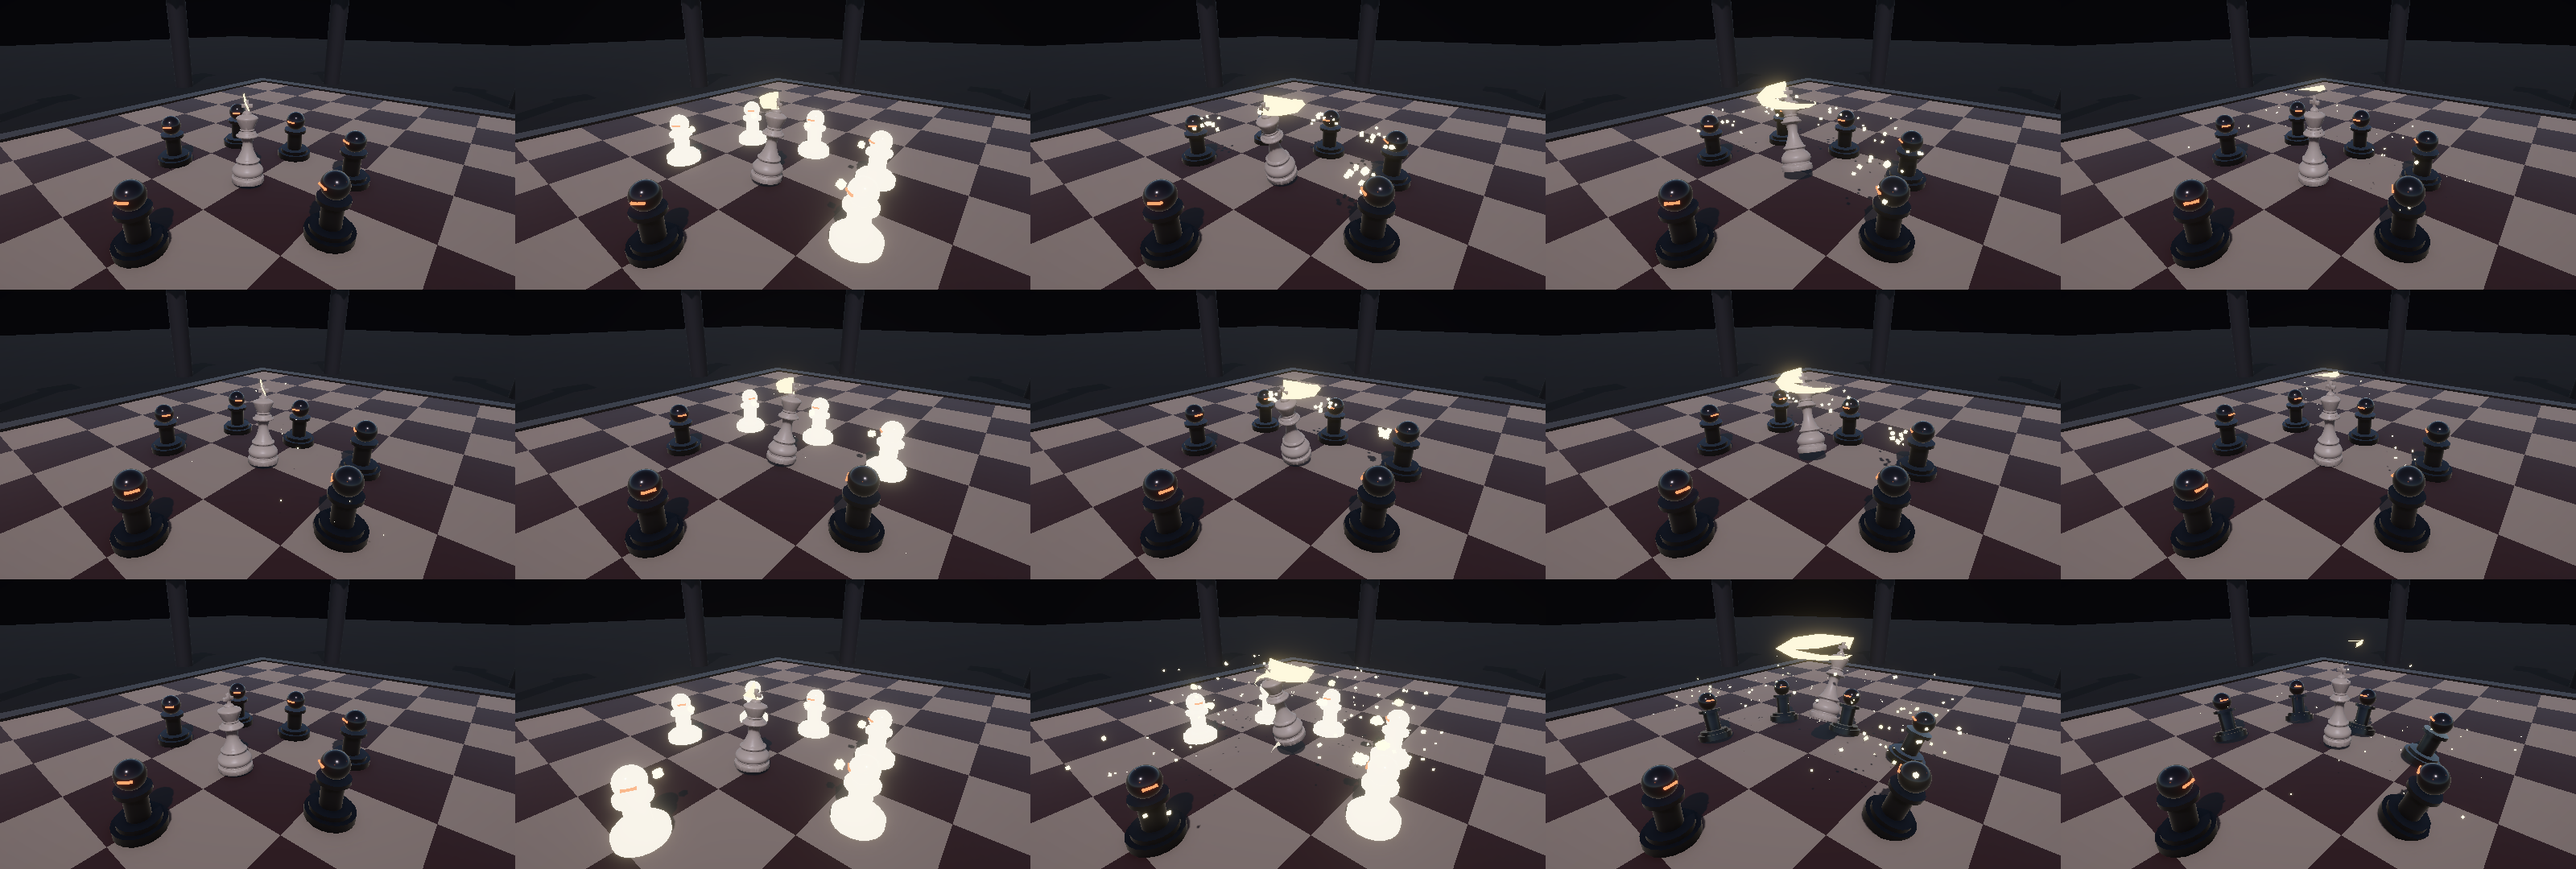
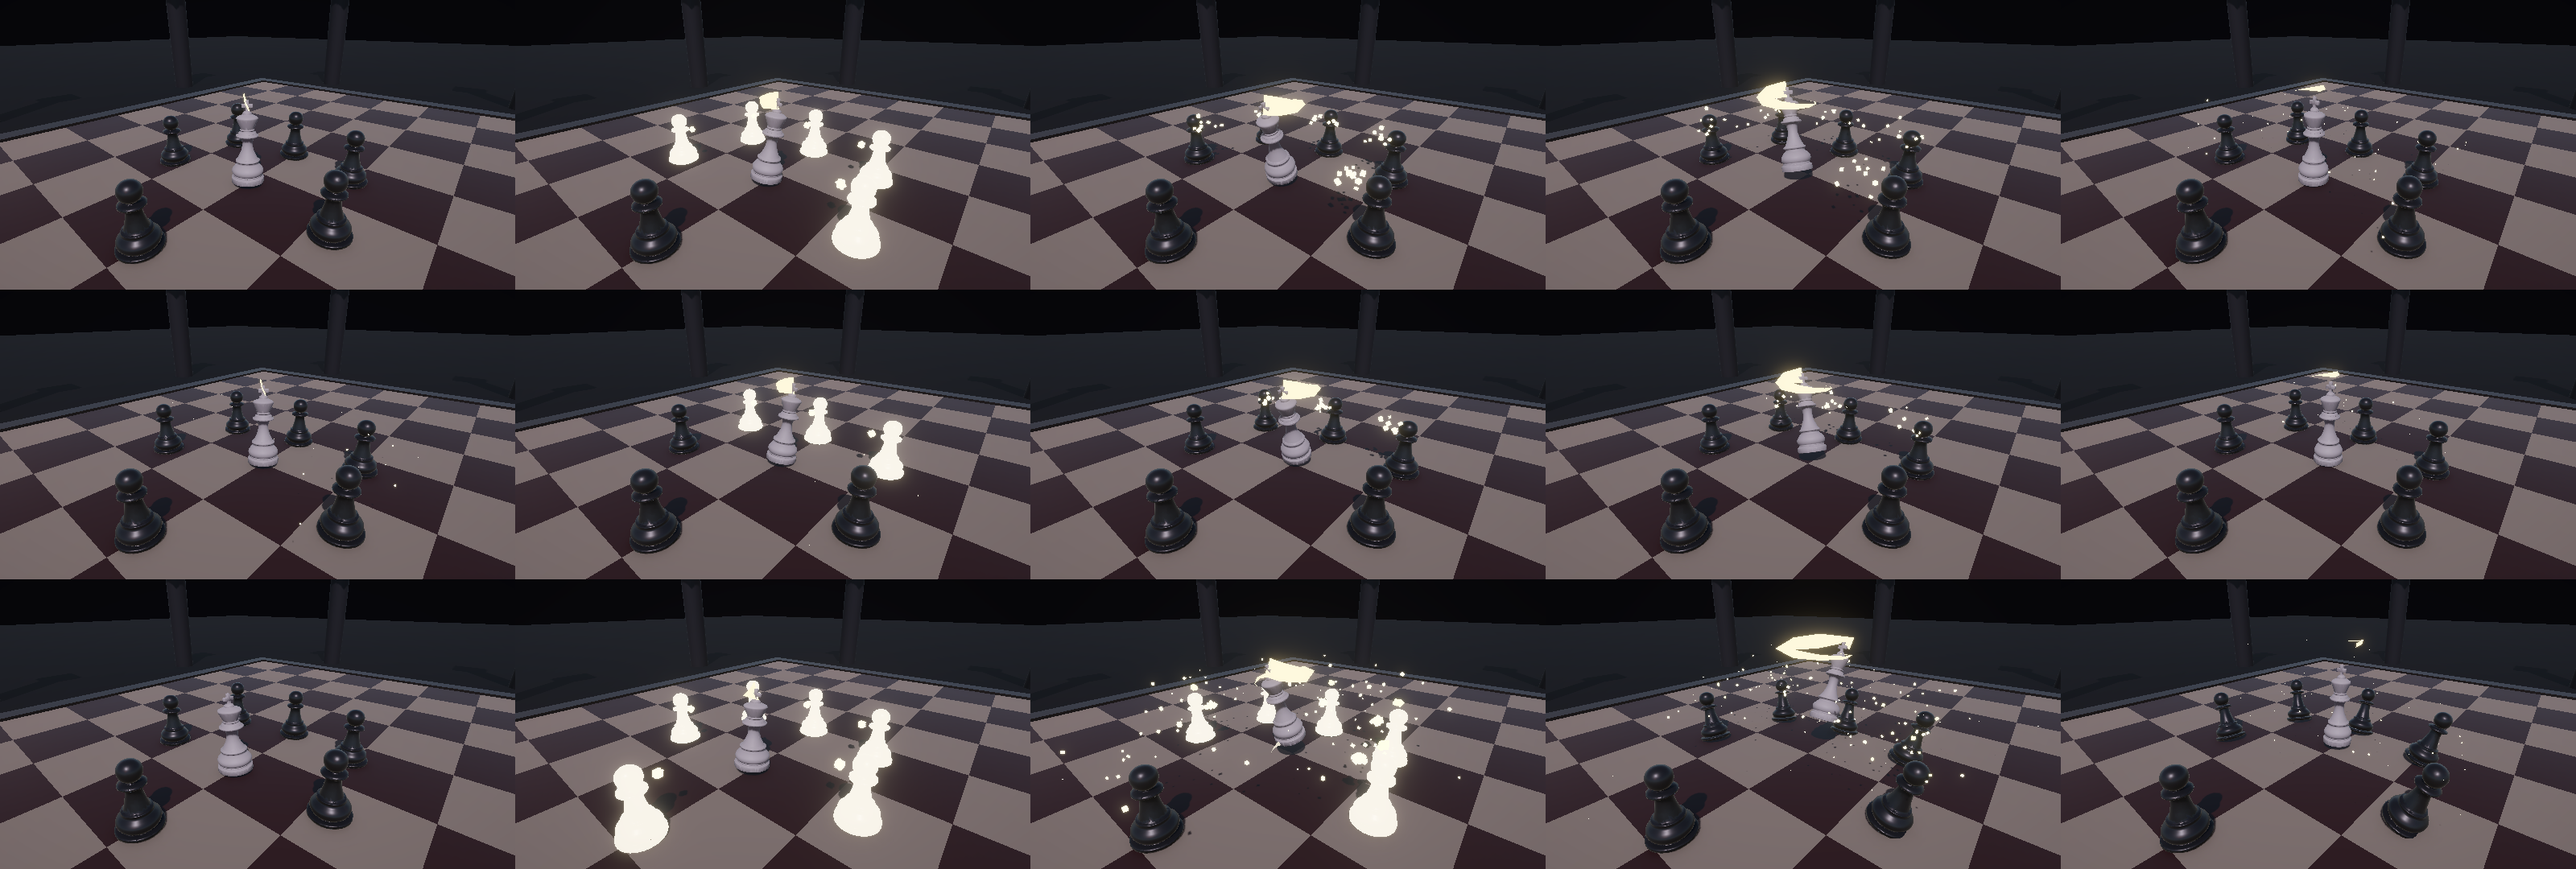
Use the designed piece models for black pieces
- Pawn, Knight, Bishop and Queen load their FBX from Resources/Models
  (Rook has no asset and stays primitive, now without the eye slit)
- Imported textures (base color, normal map) are kept by copying them onto
  emissive-capable Lit materials, so hit flashes/glows still work; the King
  now keeps its own base-color texture too
- KLP_EmissiveNormal template keeps the _EMISSION+_NORMALMAP variant in builds
- Attack Lab captures a piece lineup (front / side / close-up)

diff --git a/Assets/Scripts/Core/PieceFactory.cs b/Assets/Scripts/Core/PieceFactory.cs
@@ -1,3 +1,4 @@
+using System.Collections.Generic;
 using UnityEngine;
 
 namespace KingLastPiece
@@ -53,7 +54,6 @@ namespace KingLastPiece
                         Part(PrimitiveType.Cube, root, new Vector3(Mathf.Cos(a) * 0.3f, 1.58f, Mathf.Sin(a) * 0.3f),
                             new Vector3(0.24f, 0.26f, 0.24f), mat, new Vector3(0, i * 90f + 45f, 0));
                     }
-                    if (!white) Part(PrimitiveType.Cube, root, new Vector3(0, 1.1f, 0.3f), new Vector3(0.36f, 0.05f, 0.06f), eye);
                     break;
 
                 case PieceType.Bishop:
@@ -107,36 +107,67 @@ namespace KingLastPiece
             return root;
         }
 
-        /// <summary>Loads the White King FBX from Resources and normalizes it to the given height.
-        /// Falls back to a primitive king if the model is missing.</summary>
+        // ---------------------------------------------------------------- designed models (FBX in Resources/Models)
+
+        /// <summary>Designed model per piece type, its height on the board and a yaw fix so it faces +Z.</summary>
+        static readonly Dictionary<PieceType, (string path, float height, float yaw)> Designed =
+            new Dictionary<PieceType, (string, float, float)>
+            {
+                { PieceType.Pawn, ("Models/Black_Chess_Pawn_v03", 1.35f, 0f) },
+                { PieceType.Knight, ("Models/Black_Chess_Knight_v03", 1.75f, 0f) },
+                { PieceType.Bishop, ("Models/Black_Chess_Bishop_v03", 1.95f, 0f) },
+                { PieceType.Queen, ("Models/Black_Chess_Queen_v03", 2.5f, 0f) },
+                { PieceType.King, ("Models/White_Chess_King_v02", 2.1f, 0f) },
+            };
+
+        /// <summary>Black piece: the designed FBX when there is one (Rook has none), otherwise primitives.</summary>
+        public static Transform BuildEnemy(PieceType type, Transform parent)
+        {
+            if (Designed.TryGetValue(type, out var d))
+            {
+                var model = LoadDesigned(d.path, parent, d.height, d.yaw);
+                if (model != null) return model;
+            }
+            return Build(type, parent, false);
+        }
+
+        /// <summary>Loads the White King FBX and normalizes it to the given height.</summary>
         public static Transform BuildPlayerKing(Transform parent, float height)
         {
-            var prefab = Resources.Load<GameObject>("Models/White_Chess_King_v02");
-            if (prefab == null) return Build(PieceType.King, parent, true);
+            var d = Designed[PieceType.King];
+            return LoadDesigned(d.path, parent, height, d.yaw) ?? Build(PieceType.King, parent, true);
+        }
 
-            var container = new GameObject("King_Model").transform;
-            container.SetParent(parent, false);
+        /// <summary>
+        /// Instantiates a model from Resources, keeps its own textures (converted onto emissive-capable
+        /// materials so hit flashes/glows work), stands it up, scales it to <paramref name="height"/> and puts
+        /// its base center at the container origin. Returns null if the model is missing.
+        /// </summary>
+        static Transform LoadDesigned(string path, Transform parent, float height, float yaw)
+        {
+            var prefab = Resources.Load<GameObject>(path);
+            if (prefab == null) return null;
 
             var inst = Object.Instantiate(prefab);
-            inst.name = "WhiteKing_FBX";
+            inst.name = prefab.name;
             // Keep the FBX root rotation (Blender exports carry a -90° X axis conversion).
-            inst.transform.SetPositionAndRotation(Vector3.zero, prefab.transform.rotation);
+            inst.transform.SetPositionAndRotation(Vector3.zero, Quaternion.Euler(0f, yaw, 0f) * prefab.transform.rotation);
             foreach (var c in inst.GetComponentsInChildren<Collider>()) Object.DestroyImmediate(c);
 
             var renderers = inst.GetComponentsInChildren<Renderer>();
             if (renderers.Length == 0)
             {
-                Object.Destroy(inst);
-                Object.Destroy(container.gameObject);
-                return Build(PieceType.King, parent, true);
+                Object.DestroyImmediate(inst);
+                return null;
             }
 
-            var mat = MaterialLib.Get(PieceFactory.WhitePiece, 0.6f);
             foreach (var r in renderers)
             {
-                var mats = new Material[r.sharedMaterials.Length];
-                for (int i = 0; i < mats.Length; i++) mats[i] = mat;
+                var src = r.sharedMaterials;
+                var mats = new Material[src.Length];
+                for (int i = 0; i < mats.Length; i++) mats[i] = MaterialLib.FromImported(src[i]);
                 r.sharedMaterials = mats;
+                r.shadowCastingMode = UnityEngine.Rendering.ShadowCastingMode.On;
             }
 
             Bounds b = WorldBounds(renderers);
@@ -153,6 +184,8 @@ namespace KingLastPiece
             b = WorldBounds(renderers);
             inst.transform.position -= new Vector3(b.center.x, b.min.y, b.center.z);
 
+            var container = new GameObject(prefab.name + "_Model").transform;
+            container.SetParent(parent, false);
             inst.transform.SetParent(container, false);
             return container;
         }

diff --git a/Assets/Scripts/Core/MaterialLib.cs b/Assets/Scripts/Core/MaterialLib.cs
@@ -59,6 +59,52 @@ namespace KingLastPiece
             return m;
         }
 
+        static Material normalTemplate;
+        static readonly Dictionary<Material, Material> converted = new Dictionary<Material, Material>();
+        static readonly int BaseMapId = Shader.PropertyToID("_BaseMap");
+        static readonly int MainTexId = Shader.PropertyToID("_MainTex");
+        static readonly int BumpMapId = Shader.PropertyToID("_BumpMap");
+        static readonly int BumpScaleId = Shader.PropertyToID("_BumpScale");
+        static readonly int ColorId = Shader.PropertyToID("_Color");
+
+        /// <summary>
+        /// Copies an imported model material (its base color, base map, normal map and surface values)
+        /// onto our emissive-capable Lit material so hit flashes and glows still work on designed models.
+        /// </summary>
+        public static Material FromImported(Material src)
+        {
+            if (src == null) return Get(new Color(0.5f, 0.5f, 0.5f));
+            if (converted.TryGetValue(src, out var cached) && cached != null) return cached;
+
+            Texture baseMap = src.HasProperty(BaseMapId) ? src.GetTexture(BaseMapId) : null;
+            if (baseMap == null && src.HasProperty(MainTexId)) baseMap = src.GetTexture(MainTexId);
+            Texture bump = src.HasProperty(BumpMapId) ? src.GetTexture(BumpMapId) : null;
+            Color color = src.HasProperty(BaseColorId) ? src.GetColor(BaseColorId)
+                : src.HasProperty(ColorId) ? src.GetColor(ColorId) : Color.white;
+
+            if (bump != null && normalTemplate == null)
+            {
+                var authored = Resources.Load<Material>("Materials/KLP_EmissiveNormal");
+                normalTemplate = authored != null ? new Material(authored) : new Material(Template);
+            }
+
+            var m = new Material(bump != null ? normalTemplate : Template) { name = "KLP_" + src.name };
+            m.SetColor(BaseColorId, color);
+            if (baseMap != null) m.SetTexture(BaseMapId, baseMap);
+            if (bump != null)
+            {
+                m.SetTexture(BumpMapId, bump);
+                m.SetFloat(BumpScaleId, src.HasProperty(BumpScaleId) ? src.GetFloat(BumpScaleId) : 1f);
+                m.EnableKeyword("_NORMALMAP");
+            }
+            if (src.HasProperty(SmoothnessId)) m.SetFloat(SmoothnessId, src.GetFloat(SmoothnessId));
+            if (src.HasProperty(MetallicId)) m.SetFloat(MetallicId, src.GetFloat(MetallicId));
+            m.EnableKeyword("_EMISSION");
+            m.SetColor(EmissionId, Color.black);
+            converted[src] = m;
+            return m;
+        }
+
         public static Material Emissive(Color color, float intensity)
         {
             return Get(color * 0.3f, 0.2f, 0f, color * intensity);

diff --git a/Assets/Scripts/Lab/AttackLab.cs b/Assets/Scripts/Lab/AttackLab.cs
@@ -164,6 +164,48 @@ namespace KingLastPiece
             }
         }
 
+        /// <summary>All piece models side by side, turned toward the King: front, side and close-up views.</summary>
+        IEnumerator PieceLineup(string dir)
+        {
+            var hud = game.GetComponent<Hud>();
+            if (hud != null) hud.enabled = false;
+            game.ClearEnemies();
+            var player = game.Player;
+            player.ResetForWave(new Vector3(0f, 0f, -4f), 0f);
+            var types = new[] { PieceType.Pawn, PieceType.Knight, PieceType.Bishop, PieceType.Rook, PieceType.Queen };
+            for (int i = 0; i < types.Length; i++)
+                game.SpawnCustom<TrainingDummy>(types[i], new Vector3((i - 2) * 1.8f, 0f, 0f));
+            for (int f = 0; f < 150; f++) yield return null;  // land + turn toward the King
+
+            var views = new[]
+            {
+                (new Vector3(0f, 2.2f, -8.5f), new Vector3(0f, 1.1f, 0f)),   // front (from behind the King)
+                (new Vector3(9f, 1.8f, 0.5f), new Vector3(0f, 1.0f, 0f)),     // side
+                (new Vector3(-1.5f, 1.8f, -3.2f), new Vector3(-0.9f, 1.2f, 0f)), // close-up pawn / knight
+            };
+            Texture2D sheet = null;
+            int tileW = 0, tileH = 0;
+            for (int v = 0; v < views.Length; v++)
+            {
+                game.Rig.OverridePosition = views[v].Item1;
+                game.Rig.OverrideLookAt = views[v].Item2;
+                yield return null;
+                yield return new WaitForEndOfFrame();
+                var tex = ScreenCapture.CaptureScreenshotAsTexture();
+                if (sheet == null)
+                {
+                    tileW = tex.width;
+                    tileH = tex.height;
+                    sheet = new Texture2D(tileW * views.Length, tileH, TextureFormat.RGB24, false);
+                }
+                if (tex.width == tileW && tex.height == tileH) sheet.SetPixels32(v * tileW, 0, tileW, tileH, tex.GetPixels32());
+                Destroy(tex);
+            }
+            sheet.Apply();
+            File.WriteAllBytes(Path.Combine(dir, "8_Piece_Models.png"), sheet.EncodeToPNG());
+            Destroy(sheet);
+        }
+
         static string GetArg(string name)
         {
             var args = System.Environment.GetCommandLineArgs();
@@ -266,6 +308,7 @@ namespace KingLastPiece
             }
 
             yield return JustDodgeScenario(dir, stats);
+            yield return PieceLineup(dir);
 
             File.WriteAllText(Path.Combine(dir, "stats.tsv"), stats.ToString());
             Application.Quit();

diff --git a/Assets/Scripts/Core/GameManager.cs b/Assets/Scripts/Core/GameManager.cs
@@ -179,7 +179,7 @@ namespace KingLastPiece
             var go = new GameObject(typeof(T).Name);
             go.transform.SetPositionAndRotation(new Vector3(pos.x, 0f, pos.z), Quaternion.LookRotation(Vector3.back));
             var e = go.AddComponent<T>();
-            var model = PieceFactory.Build(modelType, go.transform, false);
+            var model = PieceFactory.BuildEnemy(modelType, go.transform);
             e.Setup(modelType, model);
             Enemies.Add(e);
             return e;
